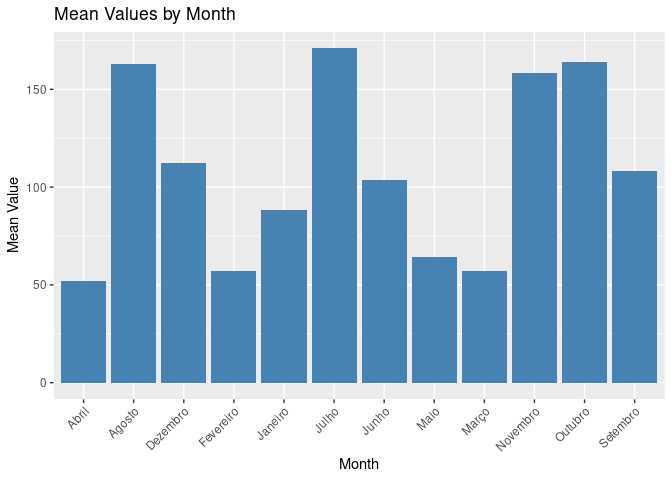
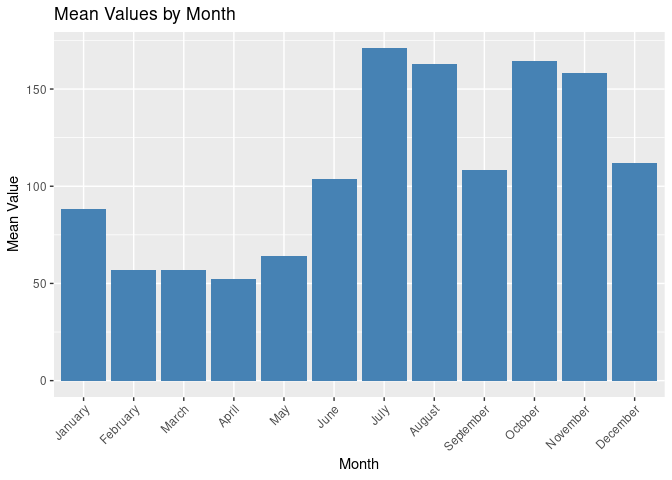
Re-build Rmd

diff --git a/assignment/Fire.md b/assignment/Fire.md
@@ -1,6 +1,6 @@
 Current and Future Deforestation in Amazon Forest
 ================
-Jiawen Tang, Mark Sun
+Jiawen Tang, Xiangrong (Mark) Sun
 
 Amazon Forest is the world’s largest tropical rain forest located in the
 south america. Known as the lung of earth, it is the largest single
@@ -218,19 +218,8 @@ states <- ne_states(country = "Brazil")
 
 ``` r
 states <- st_as_sf(states)
-states$iso_3166_2
-```
-
-    ##  [1] "BR-RS" "BR-RR" "BR-PA" "BR-AC" "BR-AP" "BR-MS" "BR-PR" "BR-SC" "BR-AM"
-    ## [10] "BR-RO" "BR-MT" "BR-MA" "BR-PI" "BR-CE" "BR-RN" "BR-PB" "BR-PE" "BR-AL"
-    ## [19] "BR-SE" "BR-BA" "BR-ES" "BR-RJ" "BR-SP" "BR-GO" "BR-DF" "BR-MG" "BR-TO"
-
-``` r
 final <- inner_join(states,total_deforest,by = "iso_3166_2" )
-final$Area
 ```
-
-    ## [1]  3891 62778  5722   616 12425 22279 43065  8318  1241
 
 Now we can start drawing the map. We have the base map and the data, and
 we plot it using tmap. From the graph we cansee that Para is the main
@@ -253,7 +242,7 @@ tm_shape(final) + tm_polygons("lost_percentage") + tm_symbols + tm_layout(legend
 
 ![](Fire_files/figure-gfm/unnamed-chunk-8-2.png)<!-- -->
 
-## Fire in Brazil
+## Fire frequency in Brazil
 
 Fire is also a major driver of forest lost in Amazon. In recent years,
 destructive wildfire has increased both frequency and intensity due to
@@ -262,7 +251,7 @@ loss. In this section, we use a fire data from Kaggle to visualize the
 frequency of fire occurrences in different states of Brazil over the
 years, and conclude geo-spatial trends.
 
-First, we read this fire data (which we made our own edition).
+First, we read this fire data, which we made some of our own edition.
 
 ``` r
 firedata <- read.csv("amazon.csv")
@@ -271,6 +260,12 @@ names(firedata)
 
     ## [1] "year"       "state"      "month"      "number"     "date"      
     ## [6] "iso_3166_2"
+
+We first group the fire data by “year”, and calculate the mean number of
+fires per year in Brazil from 1998 to 2017.After that, we plot the trend
+using line plot. From the plot, it seems that the mean number of fire
+events in Brazil has been rising through time, despite having some
+fluctuations.
 
 ``` r
 MeanBrazil <- firedata %>%
@@ -283,6 +278,11 @@ ggplot(MeanBrazil, aes(x = year, y = mean_value)) +
 
 ![](Fire_files/figure-gfm/unnamed-chunk-10-1.png)<!-- -->
 
+Now we are interested in how does fire frequency varies between
+different states in Brazil. We group by “state” column and show the
+result as bar-chart. There are big geo-spatial variations of fire
+frequency in Brazil, which we will visualize as map in later steps.
+
 ``` r
 MeanState <- firedata %>%
   group_by(state) %>%
@@ -294,19 +294,77 @@ ggplot(MeanState, aes(x = state, y = meanfire)) +
   theme(axis.text.x = element_text(angle = 45, hjust = 1))
 ```
 
-![](Fire_files/figure-gfm/unnamed-chunk-11-1.png)<!-- -->
+![](Fire_files/figure-gfm/unnamed-chunk-11-1.png)<!-- --> We also want
+to see the monthly variations in fire occurrences of all states and
+time, so we group the data set by “month” column and summarize the mean.
+Since the original data set has month names in Portuguese, and order
+Alphabetically by default instead of from Jan to Dec, we made some
+adjustments. From the final bar-chart, it’s obvious that the second half
+of the year (from July to December) has significantly more fire events
+on average than the first half.
 
 ``` r
 MeanMonth <- firedata %>%
   group_by(month) %>%
   summarize(mean_value = mean(number))
-ggplot(MeanMonth, aes(x = month, y = mean_value)) +
+MeanMonth$month = c("April","August","December","Feburary","January","July","June","May","March","November","October","September")
+MeanMonth
+```
+
+    ## # A tibble: 12 × 2
+    ##    month     mean_value
+    ##    <chr>          <dbl>
+    ##  1 April           52.2
+    ##  2 August         163. 
+    ##  3 December       112. 
+    ##  4 Feburary        57.1
+    ##  5 January         88.3
+    ##  6 July           171. 
+    ##  7 June           104. 
+    ##  8 May             64.3
+    ##  9 March           56.9
+    ## 10 November       158. 
+    ## 11 October        164. 
+    ## 12 September      108.
+
+``` r
+MMdf_new <- data.frame(
+  Month= month.name,
+  Mean = c(88.25849,57.12602,56.88408,52.20143,64.31734,103.72347,170.97428, 163.05636,108.47834,164.22515,158.34825,112.15493)
+)
+MMdf_new$Month <-factor(MMdf_new$Month, levels = c("January", "February", "March", "April",
+                                        "May", "June", "July", "August",
+                                        "September", "October", "November", "December"))
+MMdf_new
+```
+
+    ##        Month      Mean
+    ## 1    January  88.25849
+    ## 2   February  57.12602
+    ## 3      March  56.88408
+    ## 4      April  52.20143
+    ## 5        May  64.31734
+    ## 6       June 103.72347
+    ## 7       July 170.97428
+    ## 8     August 163.05636
+    ## 9  September 108.47834
+    ## 10   October 164.22515
+    ## 11  November 158.34825
+    ## 12  December 112.15493
+
+``` r
+ggplot(MMdf_new, aes(x = Month, y = Mean)) +
   geom_bar(stat = "identity", fill = "steelblue") +
   labs(title = "Mean Values by Month", x = "Month", y = "Mean Value") +
   theme(axis.text.x = element_text(angle = 45, hjust = 1))
 ```
 
-![](Fire_files/figure-gfm/unnamed-chunk-12-1.png)<!-- -->
+![](Fire_files/figure-gfm/unnamed-chunk-12-1.png)<!-- --> Here, we join
+our fire data with state-code information, and visualize the geo-spatial
+distribution of fire events within Brazil using tmap. The most frequent
+fire events happen in BR-MT (Mato Grosso) and BR-SP (São Paulo).It’s
+highly likely that all states will experience more fire events in the
+future, showing a redder map by then.
 
 ``` r
 mapfire <- firedata |> group_by(iso_3166_2) |>
@@ -318,14 +376,22 @@ tm_shape(firemap) + tm_polygons("meanfire") + tm_symbols + tm_layout(legend.outs
 
     ## Warning: The shape firemap is invalid. See sf::st_is_valid
 
-![](Fire_files/figure-gfm/unnamed-chunk-13-1.png)<!-- -->
+![](Fire_files/figure-gfm/unnamed-chunk-13-1.png)<!-- --> \## Drivers of
+forest-loss in Brazil amazon forest
+
+On a broader scale, we are concerned about the effects of multiple
+drivers of forest loss in Brazil amazon. We are able to do that using
+data collected by Tyukavina et al. (2017). We read and pivot the data
+file, and visualize it using geom_area(). Overall, there is a decreasing
+trend of forest loss over time, and pasture has always been the
+predominant cause of forest loss.
 
 ``` r
-new1<-read.csv("drivers-forest-loss-brazil-amazon.csv")
-new2 <- new1 %>% select(-Entity)
-new3 <- new2 %>% select(-Code)
-new4 <- new3 |> pivot_longer(-Year)
-new4
+driver <- read.csv("drivers-forest-loss-brazil-amazon.csv")
+driver <- driver %>% select(-Entity)
+driver <- driver %>% select(-Code)
+driver_year <- driver |> pivot_longer(-Year)
+driver_year
 ```
 
     ## # A tibble: 143 × 3
@@ -344,7 +410,7 @@ new4
     ## # ℹ 133 more rows
 
 ``` r
-ggplot(new4,aes(x=Year,y=value,fill=name)) + geom_area()
+ggplot(driver_year,aes(x=Year,y=value,fill=name)) + geom_area()+ labs(x = "Year", y = "forest loss in hectare")
 ```
 
 ![](Fire_files/figure-gfm/unnamed-chunk-14-1.png)<!-- -->
@@ -352,9 +418,11 @@ ggplot(new4,aes(x=Year,y=value,fill=name)) + geom_area()
 ## Future Deforestation
 
 Let’s go back to the future mentioned in the original paper. We show
-that fires will increase in response to human activity and climate
-change, and that logging is inevitable. If these two are not improved,
-they will have the following conditions:
+that fire frequency is expected to increase in response to human
+activity and climate change, along with continuing logging, under the
+“Business-as-usual” scenario.These activities will exacerbate the
+ecological crisis in Amazon, worsening the ecosystem health and
+integrity.
 
 ``` r
 baulogg <-rast("bau_logg_final.tif") 
@@ -385,3 +453,10 @@ tm_shape(World, bbox = stars::st_as_stars(baufire), raster.downsample = list(wid
 balbalbla你看着写
 
 ## Reference
+
+Tyukavina et al. (2017). Types and rates of forest disturbance in
+Brazilian Legal Amazon, 2000–2013. Science
+
+<https://www.kaggle.com/datasets/mbogernetto/brazilian-amazon-rainforest-degradation/data>
+
+<https://www.kaggle.com/code/instalok/brazil-forest-fire/input>
